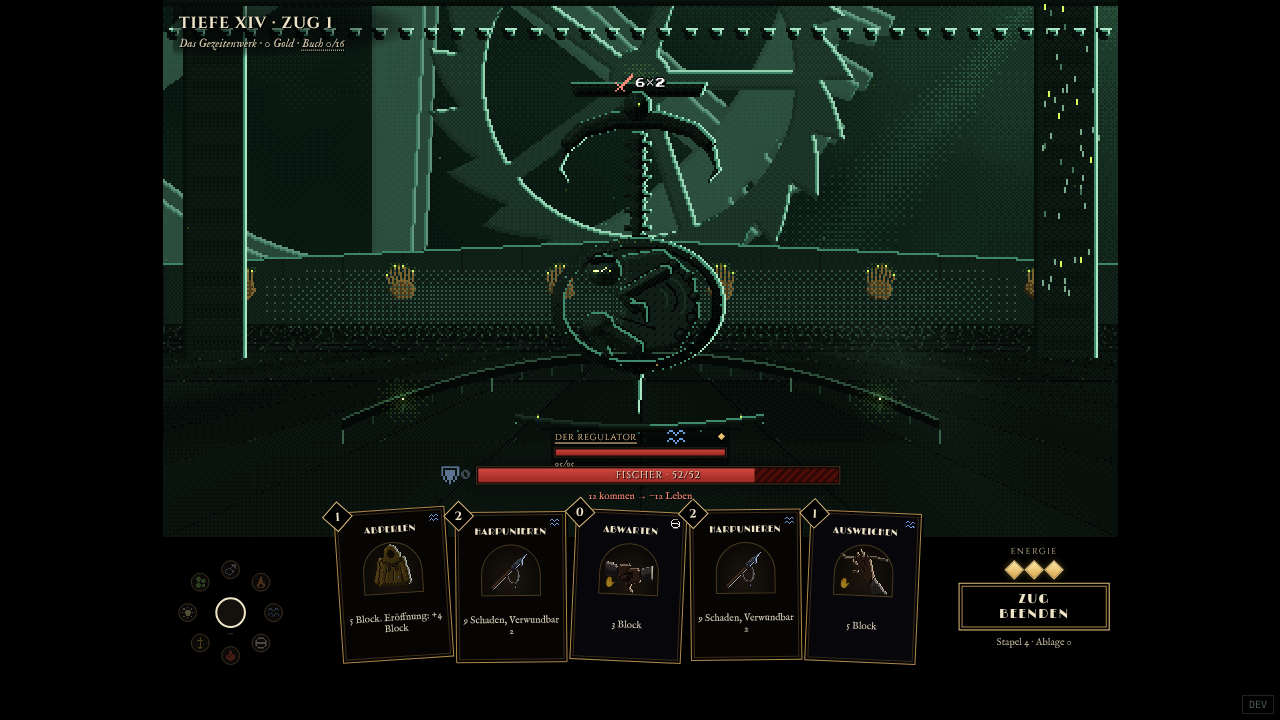
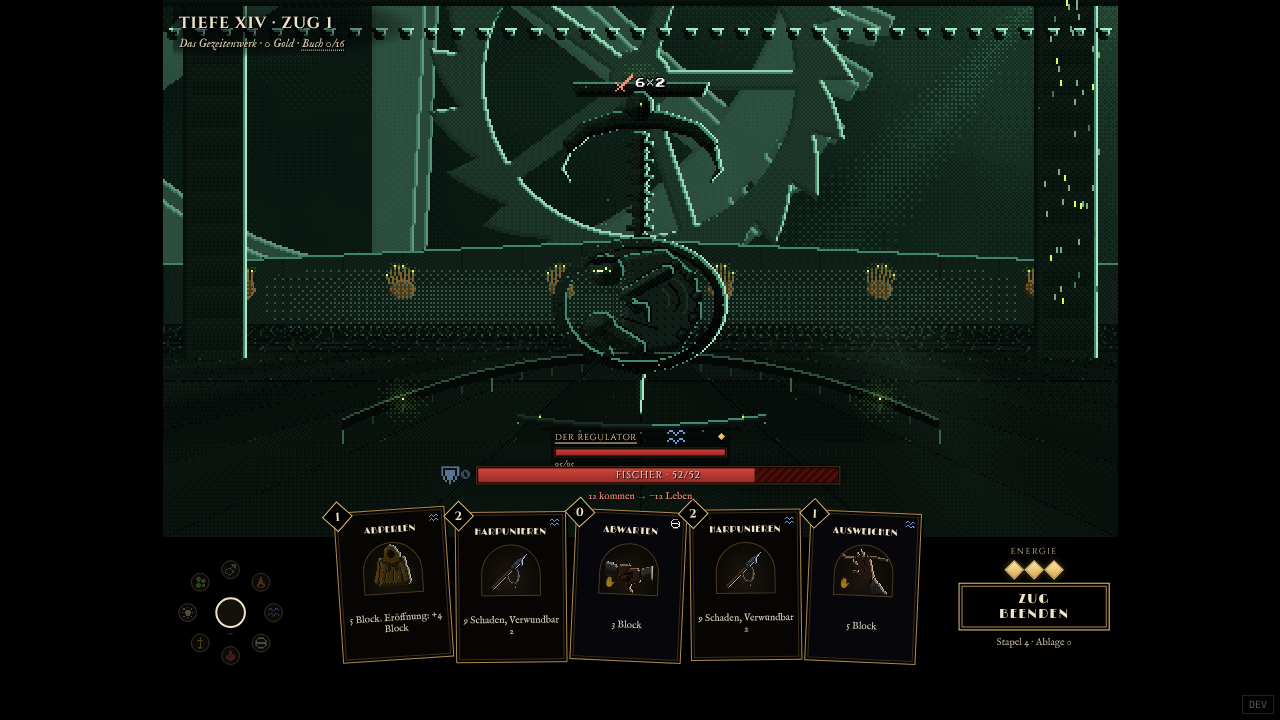
Zwischenstand: laufende Agenten
Claude-Session: https://claude.ai/code/session_01TghvEfjLh3w7y1uAeKR46M

diff --git a/tools/sprites/gegner/augen.js b/tools/sprites/gegner/augen.js
@@ -8,8 +8,8 @@ const K = require('./hilfe/kanten');
 module.exports = {
   id: 'augen', biom: 'pforte', zone: 'pforte', w: 96, h: 120, fuss: [48, 114], kopf: [48, 30],
   varianten: {
-    augen_a: { art: 'sturm', y: 58, kopf: [48, 34] },
-    augen_b: { art: 'position', y: 70, kopf: [48, 50] },
+    augen_a: { art: 'sturm', y: 60, kopf: [48, 26] },
+    augen_b: { art: 'position', y: 68, kopf: [48, 38] },
   },
   skizzen: { augen_kugel: { art: 'kugel', y: 62 } },
   bild(p, v, A) {
@@ -21,33 +21,35 @@ module.exports = {
     if (p.treffer) { sw = [5, 3][f]; weit = 0.3; }
     const fall = P0.fall, riss = p.tod && f >= 1;
     const ax = 48, lx = ax + sw, ly = v.y + hoch + fall;
-    const gross = v.art === 'sturm' ? 1 : 0.8;
+    const S = v.art === 'sturm' ? 1.6 : 1.45, gross = S * (v.art === 'sturm' ? 1 : 0.8);
     // Kette: Glieder von oben bis zur Laterne (beim Tod reißt sie)
-    const glieder = [], ketteBis = riss ? Math.max(0, v.y - 22 - fall * 2) : ly - 20 * gross;
+    const glieder = [], ketteBis = riss ? Math.max(0, v.y - 34 - fall * 2) : ly - (v.art === 'sturm' ? 42 : 30);
     const n = Math.max(1, Math.round(ketteBis / 4));
-    for (let i = 0; i < n; i++) { const q = (i + 0.5) / n, x = ax + (lx - ax) * q * q * 0.9 + (riss ? 0 : 0), y = q * ketteBis; glieder.push(i & 1 ? E(x, y, 1.1, 2.2, null) : E(x, y, 2, 1.4, null)); }
+    for (let i = 0; i < n; i++) { const q = (i + 0.5) / n, x = ax + (lx - ax) * q * q * 0.9 + (riss ? 0 : 0), y = q * ketteBis; glieder.push(i & 1 ? E(x, y, 1.3, 2.4, null) : E(x, y, 2.2, 1.6, null)); }
     const T = [Math.round(sw), Math.round(ly)];
     let teile = [], glas = null, fad = [];
     if (v.art === 'sturm') {
-      const bg = glied([[lx - 8, ly - 16], [lx - 7, ly - 24], [lx, ly - 27], [lx + 7, ly - 24], [lx + 8, ly - 16]], 1.3, 1.3, null);
-      const dach = Pg([[lx - 11, ly - 13], [lx - 4, ly - 21], [lx + 4, ly - 21], [lx + 11, ly - 13], [lx + 10, ly - 11], [lx - 10, ly - 11]], 'dunkel', { rd: 1 });
-      glas = Pg([[lx - 9, ly - 11], [lx + 9, ly - 11], [lx + 10, ly + 9], [lx - 10, ly + 9]], null, { rd: 1.5 });
-      const stege = [C(lx - 10, ly - 11, lx - 11, ly + 10, 1.2, 1.2, null), C(lx + 10, ly - 11, lx + 11, ly + 10, 1.2, 1.2, null), C(lx, ly - 11, lx, ly - 7, 1, 1, null)];
-      const fuss = [Pg([[lx - 12, ly + 9], [lx + 12, ly + 9], [lx + 9, ly + 15], [lx - 9, ly + 15]], null, { rd: 1 }), E(lx, ly + 16, 5, 2, 'dunkel')];
+      const bg = glied([[lx - 8 * S, ly - 16 * S], [lx - 7 * S, ly - 24 * S], [lx, ly - 27 * S], [lx + 7 * S, ly - 24 * S], [lx + 8 * S, ly - 16 * S]], 1.3, 1.3, null);
+      const dach = Pg([[lx - 11 * S, ly - 13 * S], [lx - 4 * S, ly - 21 * S], [lx + 4 * S, ly - 21 * S], [lx + 11 * S, ly - 13 * S], [lx + 10 * S, ly - 11 * S], [lx - 10 * S, ly - 11 * S]], 'dunkel', { rd: 1 });
+      glas = Pg([[lx - 9 * S, ly - 11 * S], [lx + 9 * S, ly - 11 * S], [lx + 10 * S, ly + 9 * S], [lx - 10 * S, ly + 9 * S]], null, { rd: 1.5 });
+      const stege = [C(lx - 10 * S, ly - 11 * S, lx - 11 * S, ly + 10 * S, 1.2, 1.2, null), C(lx + 10 * S, ly - 11 * S, lx + 11 * S, ly + 10 * S, 1.2, 1.2, null), C(lx, ly - 11 * S, lx, ly - 7 * S, 1, 1, null)];
+      const fuss = [Pg([[lx - 12 * S, ly + 9 * S], [lx + 12 * S, ly + 9 * S], [lx + 9 * S, ly + 15 * S], [lx - 9 * S, ly + 15 * S]], null, { rd: 1 }), E(lx, ly + 16 * S, 5, 2, 'dunkel')];
       teile = [{ p: bg, k: 0 }, { p: [glas], k: 0, tone: -0.6 }, { p: [dach], k: 0.6 }, { p: stege, k: 0 }, { p: fuss, k: 0.6 }];
-      fad = glied([[lx - 2, ly + 17], [lx - 3 - sw * 0.3, ly + 28], [lx - 1 - sw * 0.6, ly + 40]], 1.2, 0.4, null);
+      fad = glied([[lx - 2 * S, ly + 17 * S], [lx - 3 * S - sw * 0.3, ly + 28 * S], [lx - 1 * S - sw * 0.6, ly + 40 * S]], 1.2, 0.4, null);
     } else if (v.art === 'position') {
-      const deckel = [Pg([[lx - 8, ly - 12], [lx - 5, ly - 18], [lx + 5, ly - 18], [lx + 8, ly - 12]], 'dunkel', { rd: 1 }), C(lx, ly - 21, lx, ly - 17, 1.6, 1.6, null)];
-      glas = Pg([[lx - 8, ly - 12], [lx + 8, ly - 12], [lx + 9, ly - 2], [lx + 8, ly + 8], [lx - 8, ly + 8], [lx - 9, ly - 2]], null, { rd: 2 });
-      const ringe = [C(lx - 9, ly - 6, lx + 9, ly - 6, 0.9, 0.9, null), C(lx - 9, ly + 3, lx + 9, ly + 3, 0.9, 0.9, null)];
-      const boden = [Pg([[lx - 9, ly + 8], [lx + 9, ly + 8], [lx + 6, ly + 13], [lx - 6, ly + 13]], null, { rd: 1 })];
+      const deckel = [Pg([[lx - 8 * S, ly - 12 * S], [lx - 5 * S, ly - 18 * S], [lx + 5 * S, ly - 18 * S], [lx + 8 * S, ly - 12 * S]], 'dunkel', { rd: 1 }), C(lx, ly - 21 * S, lx, ly - 17 * S, 1.6, 1.6, null)];
+      glas = Pg([[lx - 8 * S, ly - 12 * S], [lx + 8 * S, ly - 12 * S], [lx + 9 * S, ly - 2 * S], [lx + 8 * S, ly + 8 * S], [lx - 8 * S, ly + 8 * S], [lx - 9 * S, ly - 2 * S]], null, { rd: 2 });
+      const ringe = [C(lx - 9 * S, ly - 6 * S, lx + 9 * S, ly - 6 * S, 0.9, 0.9, null), C(lx - 9 * S, ly + 3 * S, lx + 9 * S, ly + 3 * S, 0.9, 0.9, null)];
+      const boden = [Pg([[lx - 9 * S, ly + 8 * S], [lx + 9 * S, ly + 8 * S], [lx + 6 * S, ly + 13 * S], [lx - 6 * S, ly + 13 * S]], null, { rd: 1 })];
       teile = [{ p: [glas], k: 0, tone: -0.6 }, { p: deckel, k: 0.6 }, { p: ringe, k: 0, noRim: false }, { p: boden, k: 0.6 }];
-      fad = [...glied([[lx - 3, ly + 13], [lx - 5 - sw * 0.4, ly + 26], [lx - 3 - sw * 0.8, ly + 40]], 1.2, 0.4, null), ...glied([[lx + 3, ly + 13], [lx + 4 - sw * 0.3, ly + 22], [lx + 3 - sw * 0.6, ly + 32]], 1.1, 0.4, null)];
+      fad = [...glied([[lx - 3 * S, ly + 13 * S], [lx - 5 * S - sw * 0.4, ly + 26 * S], [lx - 3 * S - sw * 0.8, ly + 40 * S]], 1.2, 0.4, null), ...glied([[lx + 3 * S, ly + 13 * S], [lx + 4 * S - sw * 0.3, ly + 22 * S], [lx + 3 * S - sw * 0.6, ly + 32 * S]], 1.1, 0.4, null)];
     } else {
       glas = E(lx, ly, 10, 10, null, { pf: 'dome' });
       teile = [{ p: [glas], k: 0 }];
     }
-    const gruppen = [{ p: glieder, k: 0 }, { p: fad, k: 0, anker: T }, ...teile.map(t => ({ ...t, anker: T }))];
+    // Tang und Seepocken: die Laterne hing lange im Wasser
+    const tang = v.art === 'kugel' ? [] : [[-0.5, 13, 1], [0.35, 18, -1], [0.6, 9, 1]].map(([o, l, d]) => glied([[lx + o * 16, ly + (v.art === 'sturm' ? 24 : 20)], [lx + o * 16 + d * 2 - sw * 0.3, ly + 22 + l * 0.6], [lx + o * 16 + d * 3 - sw * 0.6, ly + 22 + l]], 1.6, 0.5, null)).flat();
+    const gruppen = [{ p: glieder, k: 0 }, { p: [...fad, ...tang], k: 0, anker: T }, ...teile.map(t => ({ ...t, anker: T }))];
     const augen = [];
     const details = P => {
       const alle = teile.flatMap(t => t.p);
@@ -55,13 +57,15 @@ module.exports = {
       teile.slice(1).forEach(t => K.licht(P, t.p, { c: 'r1', c2: 'k3' }));
       if (P0.aus) { P.line(lx - 5, ly - 1, lx + 5, ly - 1, 'k0', true); return; }
       // Glas: innen dunkler Schein in Magenta, gedithert; das Auge sitzt dort, wo die Flamme wäre
-      P.glow(lx + 0.5, ly, 9 * gross, 0.8, 'magenta1', 'k1');
+      P.glow(lx + 0.5, ly, 10 * gross, 0.85, 'magenta1', 'k1');
+      // Seepocken am Dach und Fuß
+      for (const [ox, oy] of [[-8, -15], [6, -16], [-10, 12], [9, 13], [2, 14]]) { const x = r(lx + ox * S * 0.9), y = r(ly + oy * S * 0.9); if (P.get(x, y) && P.get(x, y) < 5) { P.set(x, y, 'k3'); P.auf(x + 1, y - 1, 'r1'); } }
       const ey = ly - 1, h = Math.max(1, Math.round(4 * gross * weit * (p.idle && f === 3 ? 0.4 : 1)));
       P.el(lx + 0.5, ey + 0.5, 6 * gross, h, 'glutDim', true);
       if (h > 1) { P.el(lx + 0.5, ey + 0.5, 3, Math.min(h, 3), 'glut', true); P.line(lx, ey - Math.min(h, 3) + 1, lx, ey + Math.min(h, 3) - 1, 'k0', true); }
       P.set(r(lx - 2), r(ey - (h > 1 ? 1 : 0)), 'kern');
       // Glanz auf dem Glas: zwei helle Striche rechts oben (Gegenlicht)
-      P.auf(r(lx + 6 * gross), r(ly - 8), 'r2'); P.auf(r(lx + 6 * gross), r(ly - 7), 'r1');
+      for (let k = 0; k < 4; k++) P.auf(r(lx + 6.5 * S) - (k >> 1), r(ly - 9 * S) + k, k < 2 ? 'r2' : 'r1');
       augen.push([r(lx - 2), r(ey)]);
     };
     return { gruppen, details, augen };

diff --git a/prototype/js/scenes/world/ufer.js b/prototype/js/scenes/world/ufer.js
@@ -262,10 +262,10 @@ function strandkorbSzene(K, o) {
   const XW = 3.6, unten = [], oben = [];
   for (let Z = 1; Z <= 40; Z *= 1.06) { const xo = XW + Math.sin(Z * 1.7) * .12; unten.push(P.q(xo, 0, Z)); oben.push(P.q(xo, Yc - .5 - Math.sin(Z * 2.3) * .35, Z)); }
   const wm = B.maske(); wm.poly([...unten, ...oben.reverse(), [W + M + 400, -M - 400], [W + M + 400, H + M]]);
-  K.form(2, wm, .12, { k: FELS, ton: 2.2, fase: 2, rand: 2, schatten: 2, muster: (x, y) => { const Z = (XW * P.h) / Math.max(1, x - P.vx), Y = 1 - (y - P.vy) * Z / P.h, sY = Y * 2.6 + B.fbm(Z * .25, 0, 4, 2) * .8, lage = Math.floor(sY), q = frac(sY);
-    return (B.hash(lage, 0, 9) - .5) * 1.4 + (q > .9 ? 1.4 : q < .1 ? -1 : 0) + (B.fbm(Z * .9, Y * 3, 5, 2) - .5) * .6 - Math.max(0, 1.5 - Z) * .4; } });
+  K.form(2, wm, .12, { k: FELS, ton: 2.2, fase: 2, rand: 2, schatten: 2, muster: (x, y) => { const Z = (XW * P.h) / Math.max(1, x - P.vx), Y = 1 - (y - P.vy) * Z / P.h, sY = Y * 2.1 + Math.sin(Z * .7 + Y) * .3 + B.fbm(Z * .35, Y * .5, 4, 3) * 1.6, lage = Math.floor(sY), q = frac(sY);
+    return (B.hash(lage, 0, 9) - .5) * 1.2 + (q > .88 ? 1.3 : q < .12 ? -1 : 0) + (B.rausch2(Z * 3, Y * 6, 8) > .8 ? -1.2 : 0) + (B.fbm(Z * .9, Y * 3, 5, 2) - .5) * .6 - Math.max(0, 1.5 - Z) * .4; } });
   // Wasser sickert aus den Fugen der Wand und läuft nach unten
-  for (let i = 0; i < 9; i++) { const Z = 1.6 + i * .9, [x0, y0] = P.q(XW, 1.2 + (i % 3) * .5, Z), [, y1] = P.q(XW, 0, Z); for (let y = Math.round(y0); y < y1; y++) if (B.bay(x0, y) < .7) K.e[2].set(Math.round(x0) + (y % 5 === 0 ? 1 : 0), y, B.pk(WASSER[7])); }
+  for (let i = 0; i < 5; i++) { const Z = 1.7 + i * 1.37 + B.hash(i, 0, 4), [x0, y0] = P.q(XW, 1.1 + B.hash(i, 1, 4) * 1.4, Z), [, y1] = P.q(XW, 0, Z); for (let y = Math.round(y0); y < y1; y++) if (B.bay(x0, y) < .7) K.e[2].set(Math.round(x0) + (y % 5 === 0 ? 1 : 0), y, B.pk(WASSER[7])); }
   saeule(K, P, Xs, Zs, .14, Yc, { ruhig: o.ruhig, tiefe: .1, tief: 1.2 });
   const korb = strandkorb(K, P, -.7, 2.7);
   spuren(K, P, [[.9, 1.1], [.3, 2.2], [-.2, 3.0], [-.9, 4.4], [-1.5, 6.0], [Xs, Zs - .1]], { nassAb: .85 });
